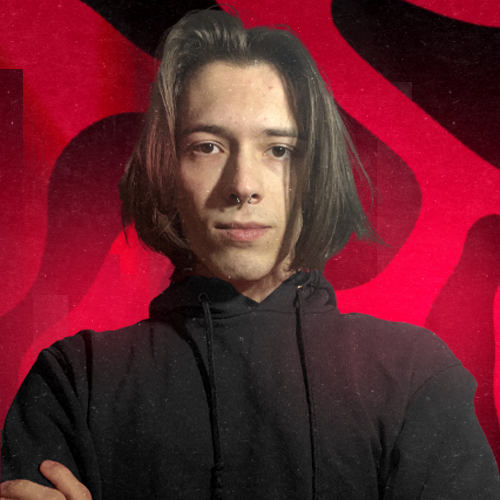
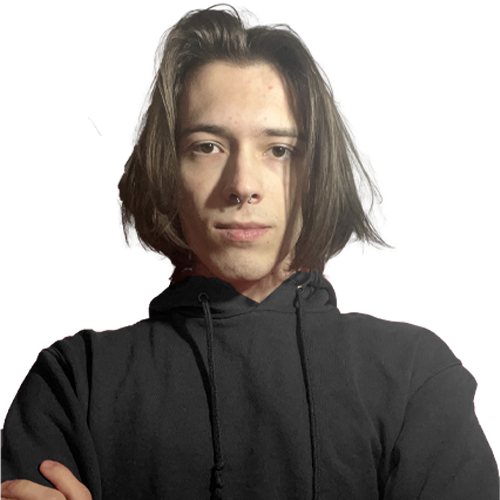
pic profiles updated

diff --git a/src/Teams/Teams.js b/src/Teams/Teams.js
@@ -30,7 +30,7 @@ function Teams() {
                 <article className={!valorant ? 'fifa-players' : 'no-visibility'}>
                     <div className="row justify-content-center fifa-card">
                         <div className="col-xs-12 col-sm-12 col-md-12 col-lg-4 card-logo">
-                            <img className="player1-fifa" src="img/crazy_pic.jpg" alt="player-1" width="275" height="275"></img>
+                            <img className="player1-fifa" src="img/crazy.png" alt="player-1" width="275" height="275"></img>
                             <div className="nick-player1-fifa">
                                 <span className="name-player1-fifa">Crazyfatgamer</span>
                                 <span className="role-player1-fifa">Player</span>
@@ -51,7 +51,7 @@ function Teams() {
                             </div>
                         </div>
                         <div className="col-xs-12 col-sm-12 col-md-12 col-lg-4 card-logo">
-                            <img className="player2-fifa" src="img/storari.jpg" alt="player-2" width="275" height="275"></img>
+                            <img className="player2-fifa" src="img/storari.png" alt="player-2" width="275" height="275"></img>
                             <div className="nick-player1-fifa">
                                 <span className="name-player1-fifa">Storari30</span>
                                 <span className="role-player1-fifa">Player</span>
@@ -69,7 +69,7 @@ function Teams() {
                             </div>
                         </div>
                         <div className="col-xs-12 col-sm-12 col-md-12 col-lg-4 card-logo">
-                            <img className="player2-fifa" src="img/ggilbe_picc.jpg" alt="player-2" width="275" height="275"></img>
+                            <img className="player2-fifa" src="img/ggilbe.png" alt="player-2" width="275" height="275"></img>
                             <div className="nick-player1-fifa">
                                 <span className="name-player1-fifa">GGilbe</span>
                                 <span className="role-player1-fifa">Player</span>

diff --git a/src/Teams/Staff.js b/src/Teams/Staff.js
@@ -11,7 +11,7 @@ function Staff() {
                 <article className='staffer'>                    
                     <div className="row justify-content-center fifa-card">
                         <div className="col-xs-12 col-sm-12 col-md-12 col-lg-4 card-logo">
-                            <img className="staff1" src="img/mileto.jpg" alt="player-1" width="275" height="275" />
+                            <img className="staff1" src="img/mileto.png" alt="player-1" width="275" height="275" />
                             <div className="nick-player1-fifa">
                                 <span className="name-player1-fifa">Andrea Mileto</span>
                                 <span className="role-player1-fifa">Team Manager</span>
@@ -32,7 +32,7 @@ function Staff() {
                             </div>
                         </div>
                         <div className="col-xs-12 col-sm-12 col-md-12 col-lg-4 card-logo">
-                            <img className="staff2" src="img/omino_stilizzato.png" alt="player-2" width="275" height="275"></img>
+                            <img className="staff2" src="img/vittorio.png" alt="player-2" width="275" height="275"></img>
                             <div className="nick-player1-fifa">
                                 <span className="name-player1-fifa">Vittorio Cicatiello</span>
                                 <span className="role-player1-fifa">Team Manager</span>
@@ -47,7 +47,7 @@ function Staff() {
                             </div>
                         </div>
                         <div className="col-xs-12 col-sm-12 col-md-12 col-lg-4 card-logo">
-                            <img className="staff2" src="img/omino_stilizzato.png" alt="player-2" width="275" height="275"></img>
+                            <img className="staff2" src="img/cipolla.png" alt="player-2" width="275" height="275"></img>
                             <div className="nick-player1-fifa">
                                 <span className="name-player1-fifa">Vincenzo Cipolla</span>
                                 <span className="role-player1-fifa">Fifa Coach</span>
